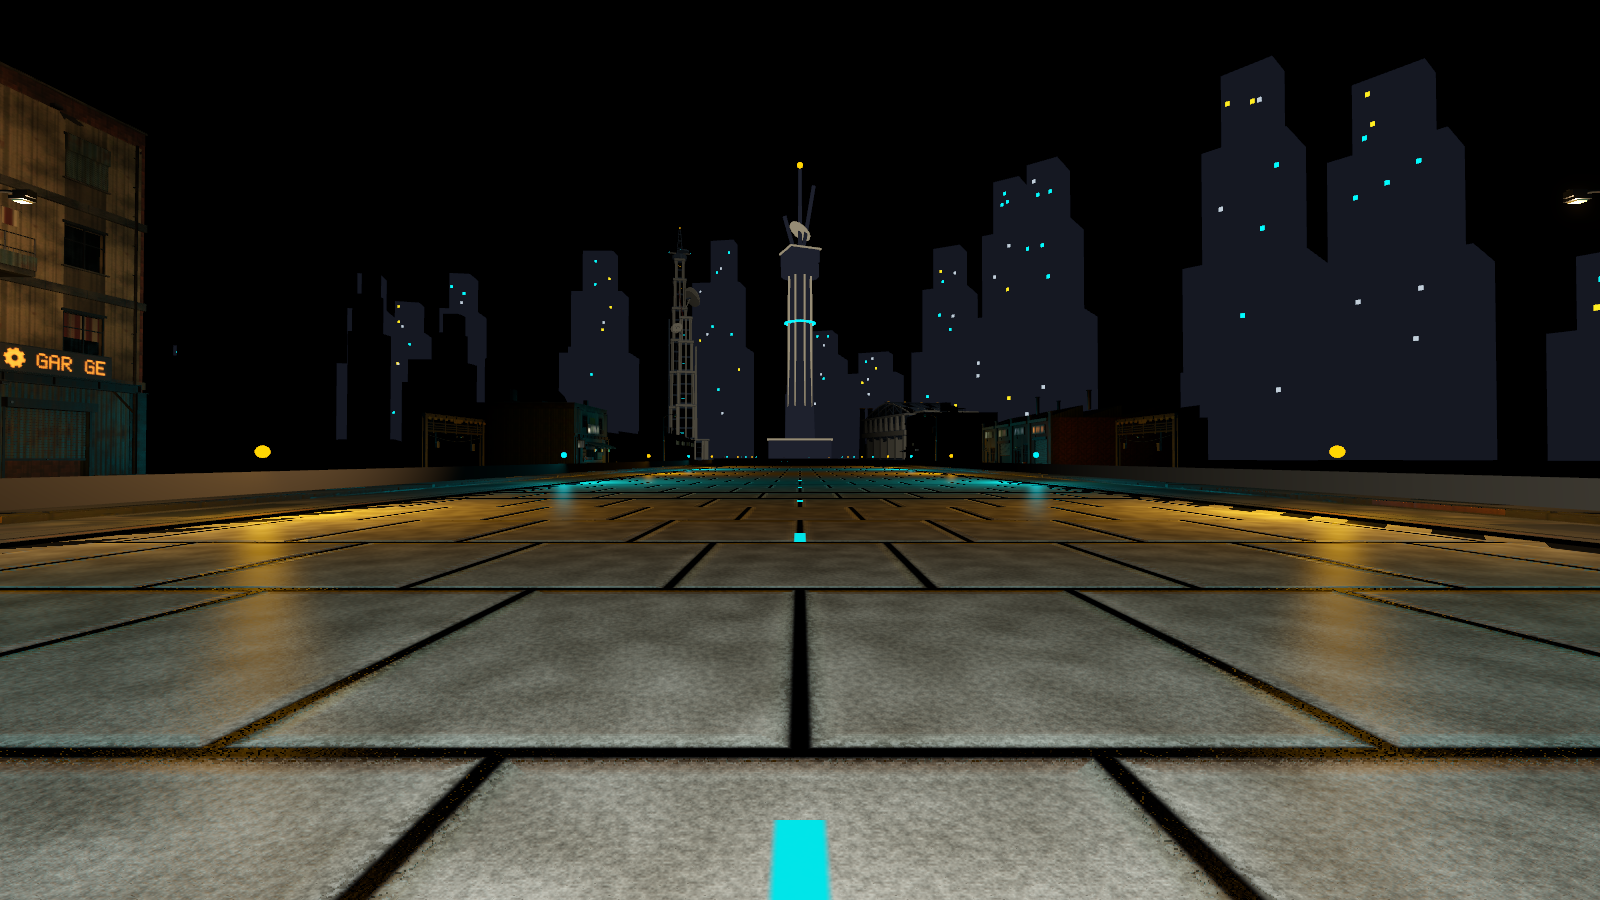
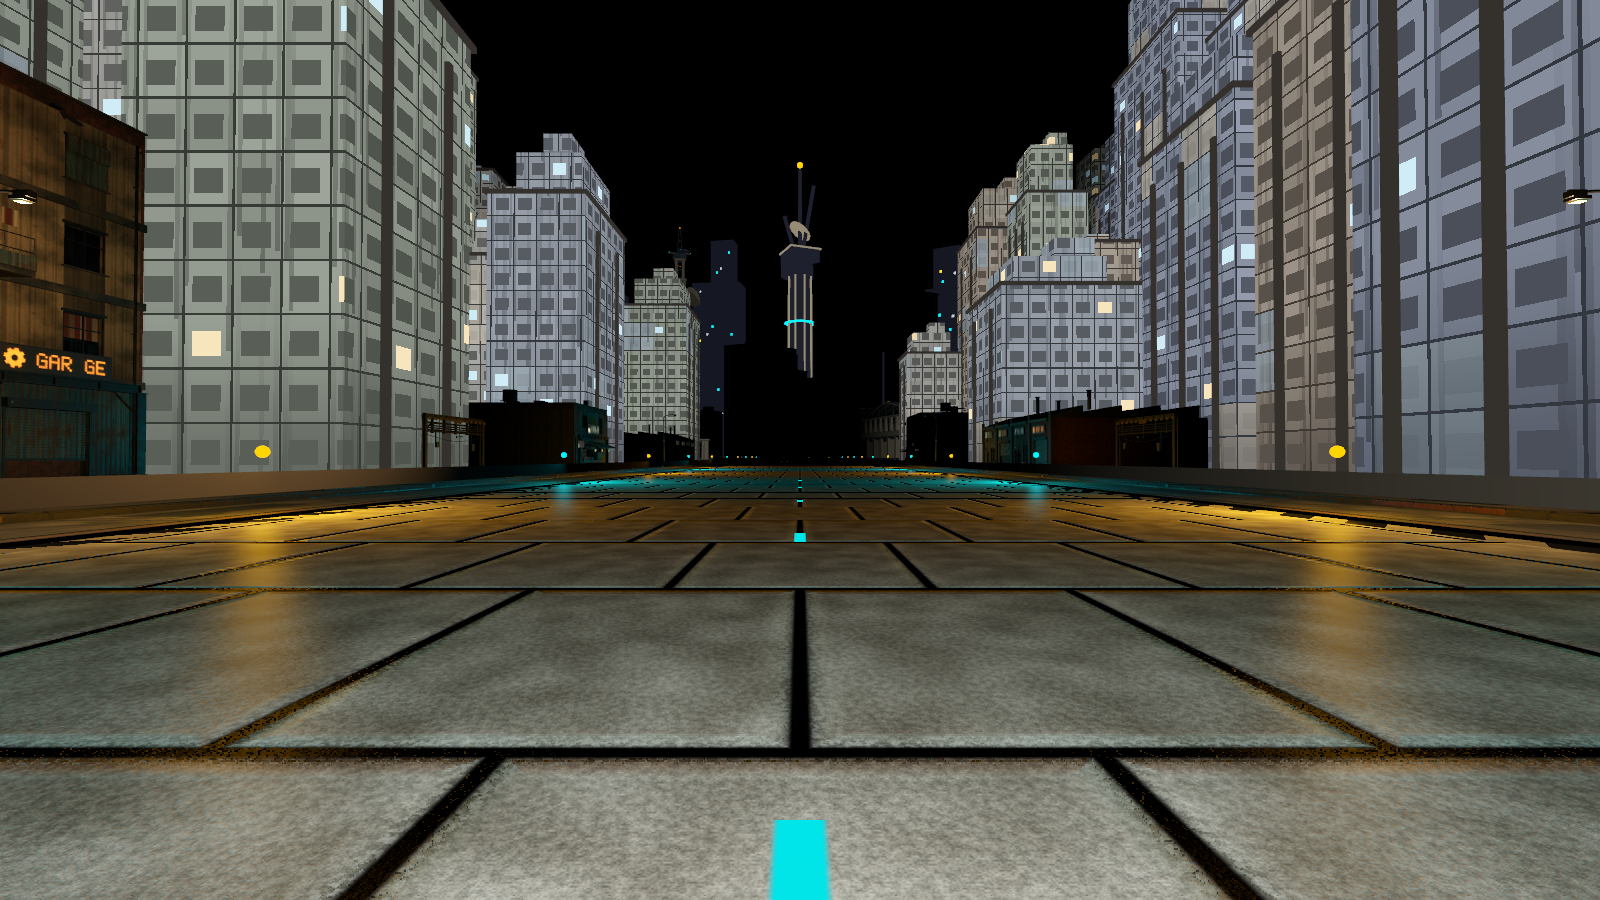
test(city): integrate full-course backdrop review captures

diff --git a/docs/city-realism.md b/docs/city-realism.md
@@ -54,3 +54,13 @@ The broader targeted regression matrix passed: city realism 227/0 headless, stre
 All 17 final Godot captures were refreshed and pass save/content checks. The shared texture import sidecars remain unchanged.
 
 The final Vulkan city suite passes 228/0, including actual merged-geometry checks and the deliberately displaced MultiMesh detector.
+
+## Full-course city layers
+
+The original tower vocabulary supplies inexpensive midground behind the eight detailed building families. The converted city adds a deterministic backdrop after the detailed lots and district landmarks have reserved their space. It reuses stepped tower bodies, pilasters and roof equipment with five muted facade tones, grime, rain streaks, repair patches and sparse stable warm/cool window emission. The distant skyline and communications crown remain unchanged. No new texture images, light nodes or collision objects are required.
+
+The backdrop uses one body MultiMesh and one trim MultiMesh. It has separate hard caps of 420 buildings, 1,900 box instances and 22,800 triangles, while the detailed-city geometry budgets remain unchanged. All emitted original-kit structures now respect detailed-lot reservations. The added backdrop also avoids existing towers, landmarks and the crown footprint. Tests independently reconstruct transformed corners, check road and lot clearance, all-quarter coverage, source course stability, determinism and fallback behavior.
+
+Godot review capture coverage now includes four city overviews as well as eight driver views, eight sidewalk views and the ramen closeup (21 total). Each overview must frame at least one detailed frontage and five original/background pieces. Neutral overviews use diagnostic lighting to show layout and surface detail; driver/night views use the race environment and a QA camera headlight.
+
+Block Circuit emits 227 added backdrop buildings: 71 / 47 / 55 / 54 across the four quarters. Their 1,438 box instances total 17,256 triangles across two material batches. All 55 dedicated backdrop checks pass. The existing detailed-city total remains 887,544 triangles with 29 buildings.

diff --git a/.ai/reviews/20261031-085702-claude.md b/.ai/reviews/20261031-085702-claude.md
@@ -1,0 +1,5 @@
+VERDICT: APPROVE
+FINDINGS:
+- [LOW] godot/tests/city_realism_qa.gd:69 — The per-quarter building check runs on every run, even without `--capture`. It also repeats the `break` fallback the sidewalk loop depends on, so that loop is still silent about a missing building. — Keep it, but gate it with `capturing` or move it into the layout tests, so the guard sits with the loop it protects.
+- [LOW] godot/tests/city_realism_qa.gd:124 — The frustum check tests only piece origins and building bounds centres. A frame can pass with those points just inside the edge, while the visible pieces are mostly off-screen or hidden behind buildings. — Require a minimum count, such as at least 5 background pieces, so the check shows real coverage.
+- [LOW] .ai/reviews/latest.md:1 — `latest.md` now holds the previous reviewer's output, which is review churn rather than part of the change. — Leave it out of the commit, or regenerate it from this review.

diff --git a/.ai/reviews/20261031-085504-claude.md b/.ai/reviews/20261031-085504-claude.md
@@ -1,0 +1,4 @@
+VERDICT: APPROVE
+FINDINGS:
+- [LOW] godot/tests/city_realism_qa.gd:117 — The overview captures only pass the generic "brightest − darkest > 0.02" check. A frame showing only sky or ground would still pass, so the shots don't prove the infill or background city is in view. — Add a check on the camera framing, such as counting placements or MultiMeshInstance3D within the view, or assert a minimum luminance variance.
+- [LOW] godot/tests/city_realism_qa.gd:3 — `EXPECTED_CAPTURES` is a hard-coded 21 and only checked when `--capture` is set. It drifts whenever a capture loop changes. Also, the sidewalk and neutral loops `break` silently when a quarter has no building placement, which makes the count check fail without saying why. — Derive the expected count from the loop bounds, or report which capture is missing.
